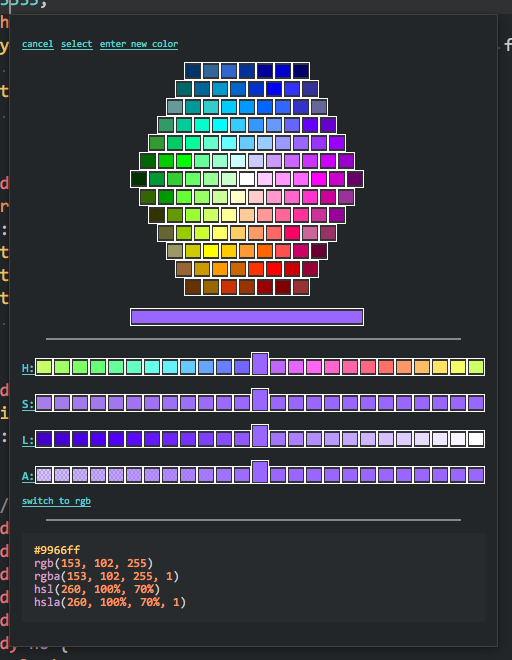
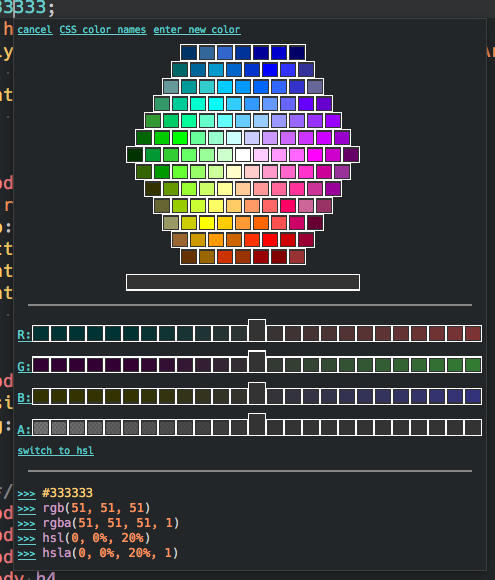
Deployed bdc35b7 with MkDocs version: 0.14.0

diff --git a/usage/index.html b/usage/index.html
@@ -153,7 +153,10 @@
 <p><img alt="color picker" src="../images/color_picker.png" /></p>
 <p>The color channels are coarse, but can generally allow you to get close to a color that you like.  As you select colors in the channel the selections will shift revealing more selections until the bounds of the color channel are reached.  If you need finer selections, you can click the label to the left and scrollable tooltip with much finer selections will appear so that you can select the best suited value.</p>
 <p><img alt="fine channel picker" src="../images/fine_channel_picker.png" /></p>
+<p>If you would like to pick from a list of CSS color names, you can select the <code>CSS color names</code> link and a CSS Color Names panel will open:</p>
+<p><img alt="CSS color names" src="../images/css_color_name_panel.png" /></p>
 <p>If you would like to directly enter a different color, you can select the <code>enter new color</code> option.  An input panel will be open that can receive a color in the hex form of <code>#RRGGBBAA</code> where <code>RR</code> is the red channel, <code>GG</code> is the green channel, <code>BB</code> is the blue channel, and <code>AA</code> is the alpha channel.</p>
+<p>To select a color, just click the <code>&gt;&gt;&gt;</code> link to the right of the CSS format yu want.</p>
 <h2 id="add-color-panel"><a name="user-content-add-color-panel" href="#add-color-panel" class="headeranchor-link" aria-hidden="true"><span class="headeranchor"></span></a>Add Color Panel</h2>
 <p>The Add Color Panel presents the user with the option of either adding a color to an existing palette or creating a new global or project palette and adding the color to it.</p>
 <p><img alt="add color palette" src="../images/add_color.png" /></p>
@@ -237,6 +240,18 @@
 </pre></div>
 
 
+<h3 id="use_hex_color_picker"><a name="user-content-use_hex_color_picker" href="#use_hex_color_picker" class="headeranchor-link" aria-hidden="true"><span class="headeranchor"></span></a>use_hex_color_picker</h3>
+<p>Enables or disables the use of the hex color picker.  When enabled, the color picker has a hex shape as the colors fan out from the white center.  If disabled, the color picker will be a rectangular one that shows the colors by hue and by brightness.</p>
+<div class="codehilite"><pre>    <span class="c1">// This can be turned off to get a rectangular color picker</span>
+    <span class="c1">// That displays possible options by hue and brightness/luminance.</span>
+    <span class="s2">&quot;use_hex_color_picker&quot;</span><span class="o">:</span> <span class="kc">true</span><span class="p">,</span>
+</pre></div>
+
+
+<dl>
+<dt>Disabled look</dt>
+<dd><img alt="alternate color picker" src="../images/alternate_color_picker.png" /></dd>
+</dl>
 <h3 id="use_color_picker_package"><a name="user-content-use_color_picker_package" href="#use_color_picker_package" class="headeranchor-link" aria-hidden="true"><span class="headeranchor"></span></a>use_color_picker_package</h3>
 <p>If you have <a href="https://github.com/weslly">@weslly</a>&lsquo;s <a href="https://packagecontrol.io/packages/ColorPicker">ColorPicker</a> package installed, <code>user_color_picker_package</code> will cause it to override the default color picker, but only the default color picker supports transparency.</p>
 <div class="codehilite"><pre>    <span class="c1">// Use https://github.com/weslly/ColorPicker for the color picker if installed.</span>

diff --git a/index.html b/index.html
@@ -191,5 +191,5 @@
 
 <!--
 MkDocs version : 0.14.0
-Build Date UTC : 2015-11-20 05:26:45.505625
+Build Date UTC : 2015-11-22 02:46:37.944046
 -->
